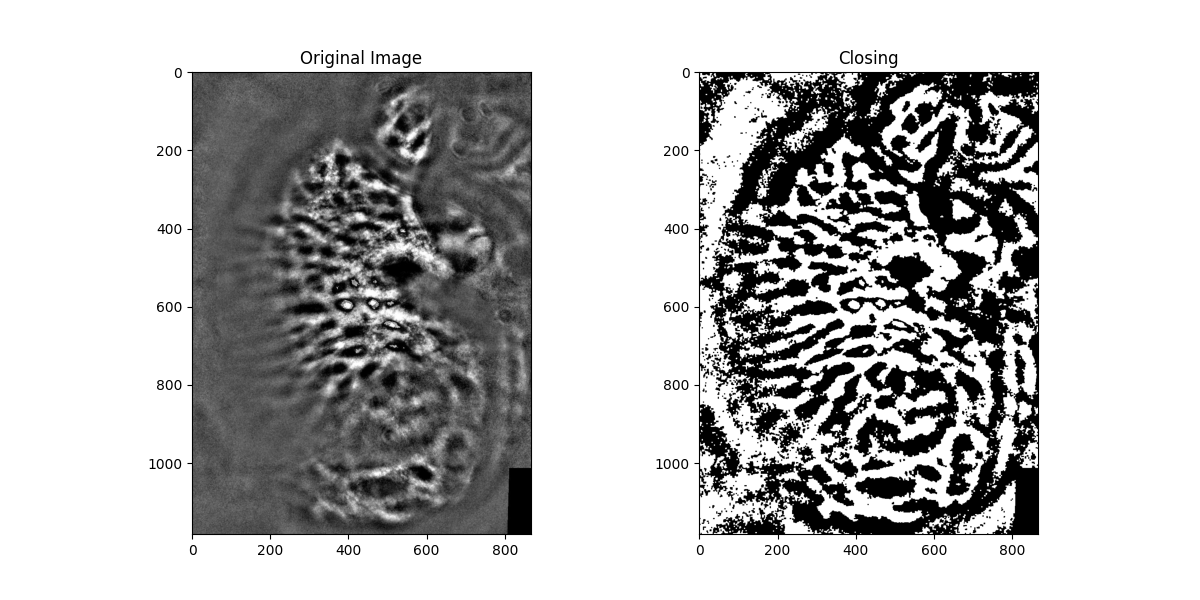
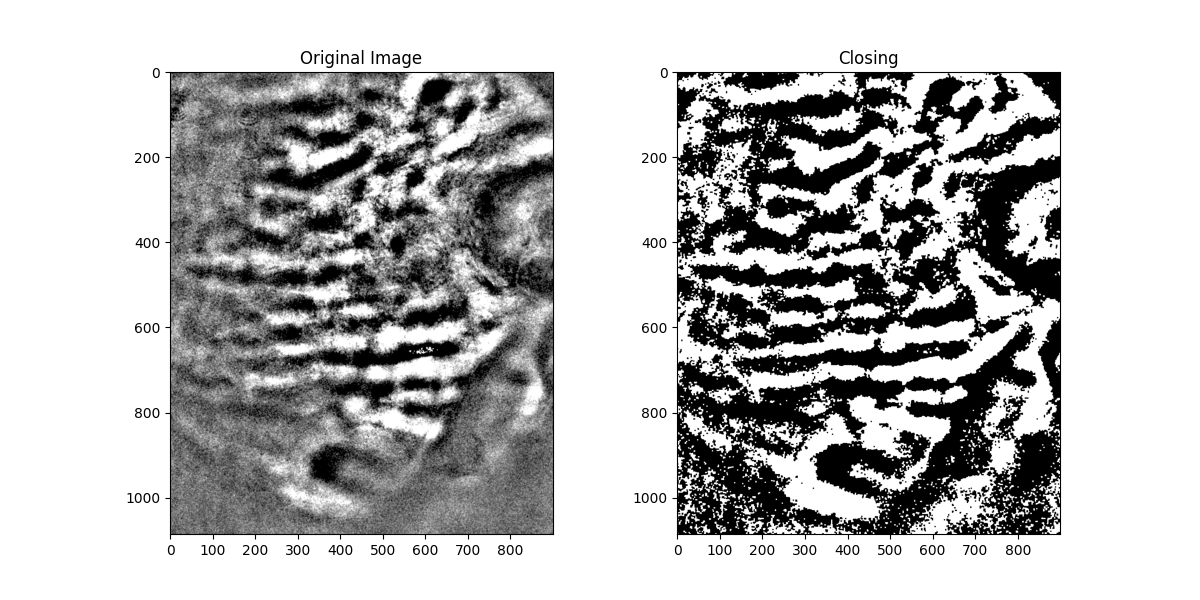
rajout des contrastes binaires

diff --git a/traitementcontrast_Chloe.py b/traitementcontrast_Chloe.py
@@ -1,0 +1,101 @@
+import cv2
+import numpy as np
+from matplotlib import pyplot as plt
+from skimage.filters import threshold_otsu, gaussian, laplace
+from skimage.morphology import white_tophat, disk
+import os
+
+# Créez le dossier 'Results' s'il n'existe pas déjà
+results_path = 'Results_Chloe'
+if not os.path.exists(results_path):
+    os.makedirs(results_path)
+
+# Créez un sous-dossier spécifique pour les résultats de cette exécution
+result_folder = os.path.join(results_path, 'Contrast_Results')
+if not os.path.exists(result_folder):
+    os.makedirs(result_folder)
+
+# Vérifier si le fichier image existe dans le répertoire courant
+image_path = os.path.join('Lame_criblee', 'LC002.jpg')  # Remplacez par le chemin de votre image
+if not os.path.isfile(image_path):
+    raise FileNotFoundError(f"Image not found at path: {image_path}")
+
+# Charger l'image
+image = cv2.imread(image_path, cv2.IMREAD_GRAYSCALE)
+if image is None:
+    raise FileNotFoundError(f"Image not found or cannot be opened at path: {image_path}")
+
+# II. Pré-traitement de l’image
+
+# 2. Augmentation du contraste
+def manual_contrast(image, factor):
+    return cv2.convertScaleAbs(image, alpha=factor, beta=0)
+
+def histogram_equalization(image):
+    return cv2.equalizeHist(image)
+
+def top_hat(image):
+    selem = disk(12)
+    return white_tophat(image, selem)
+
+# V. Détection de contours
+def laplacian_of_gaussian(image):
+    return laplace(gaussian(image, sigma=3))
+
+# Binarisation en utilisant Otsu
+def binarize(image):
+    thresh = threshold_otsu(image)
+    binary = image > thresh
+    return (binary * 255).astype(np.uint8)
+
+# Fonction pour sauvegarder les images
+def save_image(image, filename):
+    filepath = os.path.join(result_folder, filename)
+    plt.imsave(filepath, image, cmap='gray')
+
+# Exemple de flux de travail
+original_image = image
+manual_contrast_image = manual_contrast(image, 1.5)
+equalized_image = histogram_equalization(image)
+tophat_image = top_hat(image)
+log_image = laplacian_of_gaussian(image)
+
+# Binarisation des images traitées
+manual_contrast_binary = binarize(manual_contrast_image)
+equalized_binary = binarize(equalized_image)
+tophat_binary = binarize(tophat_image)
+log_binary = binarize(log_image)
+
+# Sauvegarder les images traitées
+save_image(original_image, 'original_image.png')
+save_image(manual_contrast_image, 'manual_contrast_image.png')
+save_image(equalized_image, 'equalized_image.png')
+save_image(tophat_image, 'tophat_image.png')
+save_image(log_image, 'log_image.png')
+
+# Sauvegarder les images binaires
+save_image(manual_contrast_binary, 'manual_contrast_binary.png')
+save_image(equalized_binary, 'equalized_binary.png')
+save_image(tophat_binary, 'tophat_binary.png')
+save_image(log_binary, 'log_binary.png')
+
+# Comparaison des images traitées avec l'image originale
+def plot_comparison(original, processed, title_processed, filename):
+    plt.figure(figsize=(12, 6))
+    plt.subplot(121), plt.imshow(original, cmap='gray'), plt.title('Original Image')
+    plt.subplot(122), plt.imshow(processed, cmap='gray'), plt.title(title_processed)
+    comparison_path = os.path.join(result_folder, filename)
+    plt.savefig(comparison_path)
+    plt.close()
+
+# Comparer et sauvegarder les résultats
+plot_comparison(original_image, manual_contrast_image, 'Manual Contrast', 'comparison_manual_contrast.png')
+plot_comparison(original_image, equalized_image, 'Histogram Equalization', 'comparison_equalized_image.png')
+plot_comparison(original_image, tophat_image, 'Top Hat', 'comparison_tophat_image.png')
+plot_comparison(original_image, log_image, 'Laplacian of Gaussian', 'comparison_log_image.png')
+
+# Comparer et sauvegarder les images binaires
+plot_comparison(original_image, manual_contrast_binary, 'Manual Contrast Binary', 'comparison_manual_contrast_binary.png')
+plot_comparison(original_image, equalized_binary, 'Histogram Equalization Binary', 'comparison_equalized_binary.png')
+plot_comparison(original_image, tophat_binary, 'Top Hat Binary', 'comparison_tophat_binary.png')
+plot_comparison(original_image, log_binary, 'Laplacian of Gaussian Binary', 'comparison_log_binary.png')

diff --git a/traitement_Chloe.py b/traitement_Chloe.py
@@ -19,7 +19,7 @@ if not os.path.exists(result_folder):
     os.makedirs(result_folder)
 
 # Vérifier si le fichier image existe dans le répertoire courant
-image_path = os.path.join('Lame_criblee', 'LC001.jpg')  # Remplacez par le chemin de votre image
+image_path = os.path.join('Lame_criblee', 'LC002.jpg')  # Remplacez par le chemin de votre image
 if not os.path.isfile(image_path):
     raise FileNotFoundError(f"Image not found at path: {image_path}")
 
